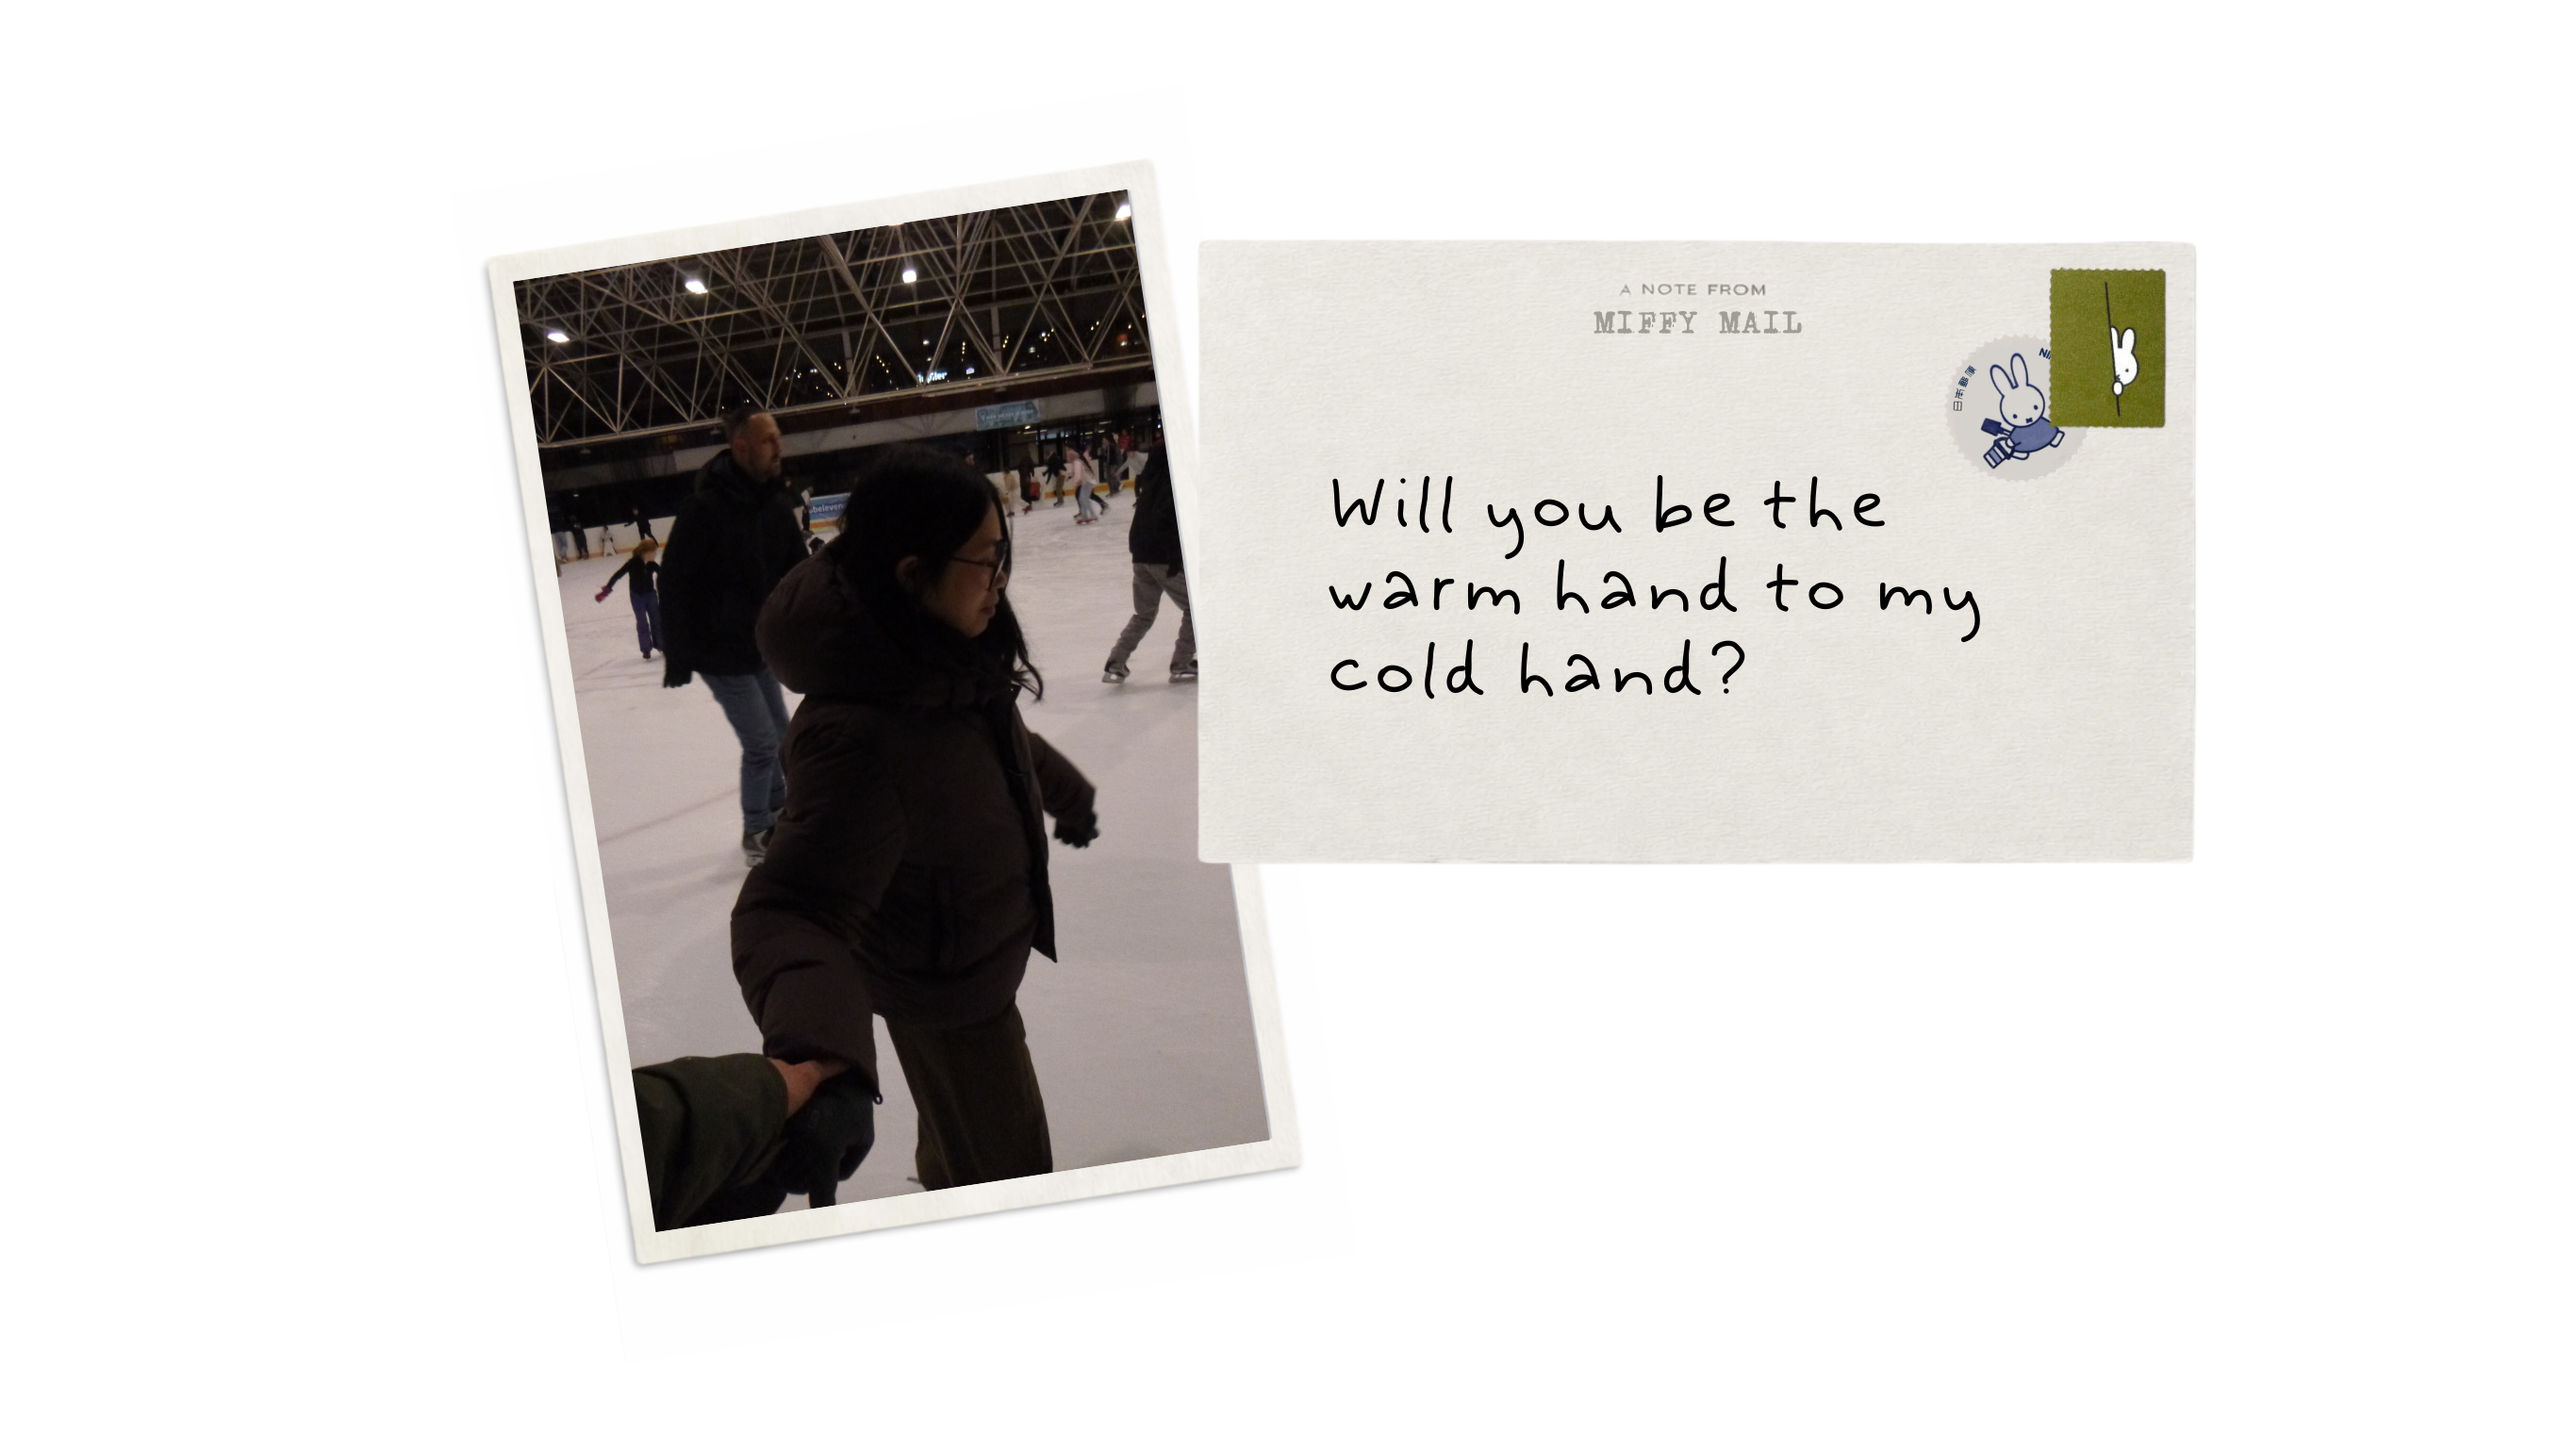
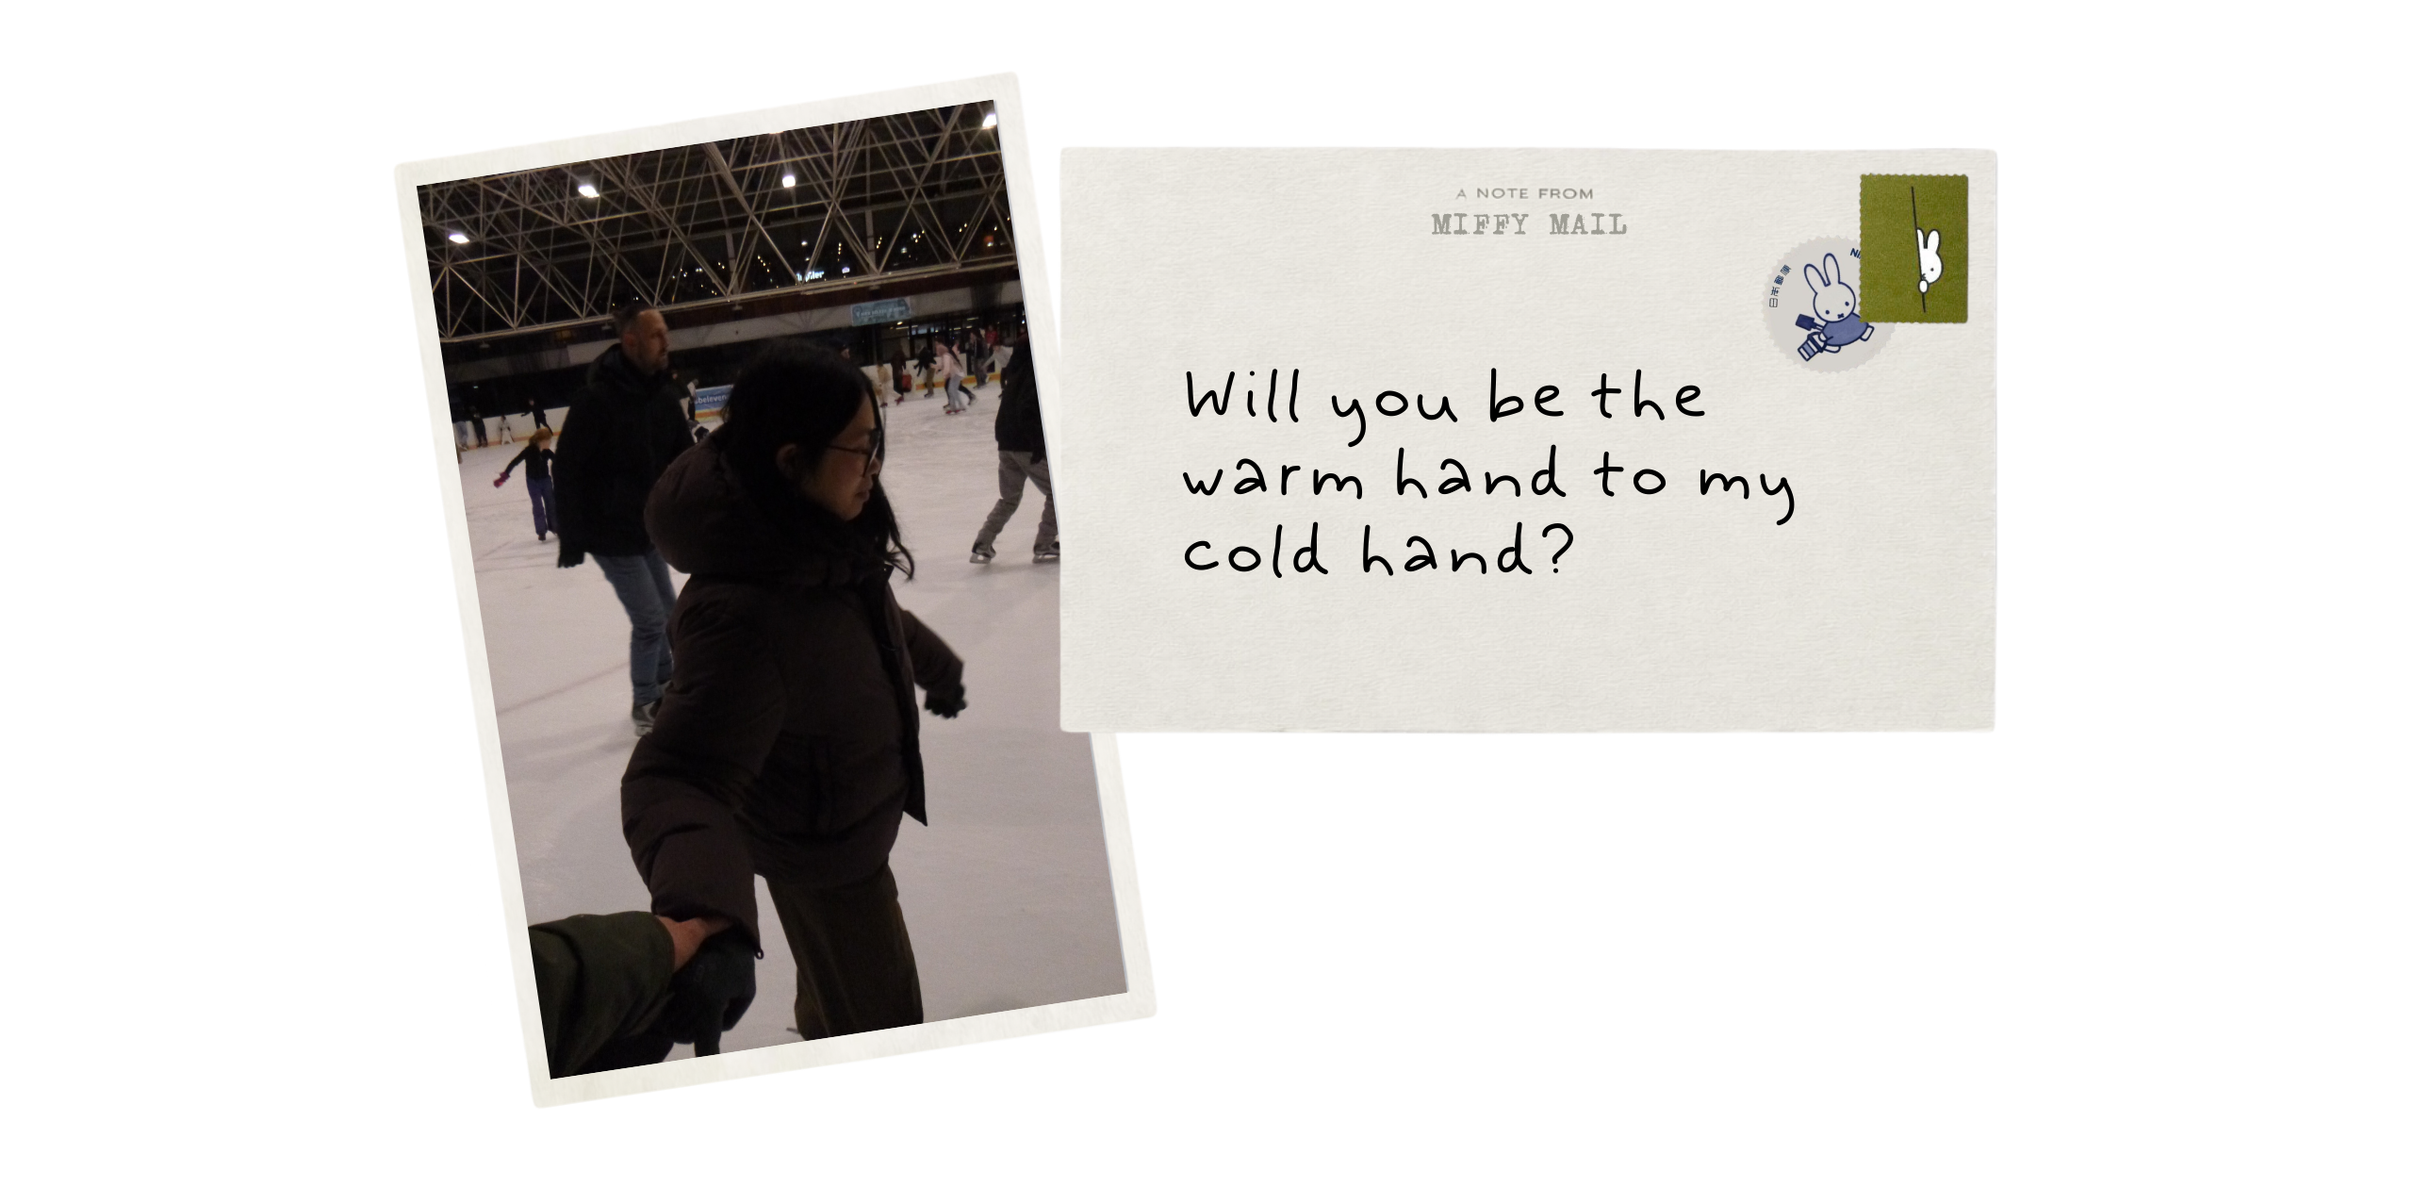
Updates

Changed region(s): [[0.1562, 0.0611, 0.8747, 0.9162], [0.4998, 0.3054, 0.7809, 0.4886]]

diff --git a/style.css b/style.css
@@ -1,7 +1,15 @@
+@font-face {
+  font-family: 'Azura';
+  src: url('assets/uzura.ttf') format('truetype');
+  font-weight: normal;
+  font-style: normal;
+}
+
 * {
   margin: 0;
   padding: 0;
   box-sizing: border-box;
+  font-family: 'Azura', serif;
 }
 
 :root {
@@ -9,7 +17,7 @@
 }
 
 body {
-  font-family: 'Georgia', serif;
+  font-family: 'Azura', serif;
   background: var(--page-bg);
   background-attachment: fixed;
   overflow-x: hidden;
@@ -29,12 +37,12 @@ body.scroll-locked {
 
 .sound-toggle {
   position: fixed;
-  top: 12px;
-  right: 12px;
+  top: 16px;
+  right: 16px;
   z-index: 10001;
-  width: 56px;
-  height: 56px;
-  padding: 50;
+  width: min(70px, 18vw);
+  height: min(70px, 18vw);
+  padding: 0; 
   border: none;
   background: transparent;
   cursor: pointer;
@@ -43,12 +51,14 @@ body.scroll-locked {
   justify-content: center;
   transition: transform 0.2s ease;
 }
+
 .sound-toggle:hover {
   transform: scale(1.08);
 }
+
 .sound-toggle img {
-  width: 48px;
-  height: 48px;
+  width: 100%;
+  height: 100%;
   display: block;
   object-fit: contain;
 }
@@ -128,7 +138,6 @@ body.scroll-locked {
   padding-top: 32px;
   font-size: 14px;
   color: #6b5b4d;
-  font-style: italic;
 }
 
 .sign-title {
@@ -225,8 +234,8 @@ body.scroll-locked {
 }
 
 .loading-gif {
-  max-width: 300px;
-  max-height: 300px;
+  width: min(240px, 40vw);
+  height: auto;
 }
 
 .mail-stage {
@@ -350,10 +359,11 @@ body.scroll-locked {
 
 .letter {
   position: absolute;
-  width: 95%;
-  height: 98%;
-  left: 2.5%;
-  top: 2%;
+  width: 102%;     
+  height: 102%;    
+  left: 50%;
+  top: 1%;        
+  transform: translateX(-50%);
   z-index: 3;
   transition: top 0.6s ease, opacity 0.6s ease;
   overflow: hidden;
@@ -374,7 +384,7 @@ body.scroll-locked {
 
 .checkbox-overlay {
   position: absolute;
-  bottom: 95px;
+  bottom: 140px;
   left: 50%;
   transform: translateX(-50%);
   display: flex;
@@ -395,13 +405,13 @@ body.scroll-locked {
   display: flex;
   flex-direction: column;
   align-items: center;
-  gap: 4px;
+  gap: 10px;
   font-size: 14px;
   cursor: pointer;
   transition: transform 0.2s ease;
   background: rgba(255, 255, 255, 0.9);
   padding: 8px 14px;
-  border-radius: 6px;
+  border-radius: 3px;
 }
 
 .checkbox-option:hover {
@@ -410,18 +420,19 @@ body.scroll-locked {
 }
 
 .checkbox-option input[type="checkbox"] {
-  width: 18px;
-  height: 18px;
+  width: 30px;
+  height: 30px;
   cursor: pointer;
-  accent-color: #8b7355;
+  accent-color: #000000;
   margin: 0;
+  margin-bottom: 8px;
 }
 
 .checkbox-option label {
   cursor: pointer;
-  color: #8b7355;
+  color: #000000;
   font-weight: bold;
-  font-size: 13px;
+  font-size: 15px;
   margin: 0;
 }
 
@@ -446,11 +457,6 @@ body.scroll-locked {
 
 .scroll-hint.hidden {
   opacity: 0;
-}
-
-.scroll-hint-text {
-  font-weight: 600;
-  letter-spacing: 0.04em;
 }
 
 .scroll-hint-arrow {

diff --git a/index.html b/index.html
@@ -8,7 +8,6 @@
     <link rel="stylesheet" href="style.css" />
 </head>
 <body class="scroll-locked">
-
     <div id="loading-screen">
         <img src="assets/loading.gif" alt="Loading..." class="loading-gif">
     </div>
@@ -21,7 +20,6 @@
         <img id="mail-img" src="assets/mail1.png" alt="Mail">
     </div>
 
-
     <div id="main-container">
         <div class="envelope-container">
             <div class="envelope-body"></div>
@@ -29,8 +27,10 @@
             <div class="side-flap-left"></div>
             <div class="side-flap-right"></div>
             <div class="opening-flap"></div>
+            
             <div class="letter">
                 <img src="assets/valentinecard.png" alt="Valentine's Letter">
+                
                 <div class="checkbox-overlay">
                     <div class="checkbox-option">
                         <input type="checkbox" id="yes" name="answer" onclick="handleAnswer(this)">
@@ -50,29 +50,12 @@
     </div>
 
     <section class="mail-scroll-section"><img src="assets/mail2.png" alt=""></section>
-    <br>
-    <br>
     <section class="mail-scroll-section"><img src="assets/mail3.png" alt=""></section>
-    <br>
-    <br>
-    <br>
-    <br>
     <section class="mail-scroll-section"><img src="assets/mail4.png" alt=""></section>
-    <br>
-    <br>
-    <br>
-    <br>
     <section class="mail-scroll-section"><img src="assets/mail5.png" alt=""></section>
-    <br>
-    <br>
-    <br>
-    <br>
     <section class="mail-scroll-section"><img src="assets/mail6.png" alt=""></section>
-    <br>
-    <br>
-    <br>
-    <br>
     <div class="scroll-spacer"></div>
+    <div class="envelope-sign-gap" aria-hidden="true"></div>
 
     <section class="sign-section sign-section--hidden" id="sign-section">
         <h2 class="sign-title">Sign the contract</h2>
@@ -84,7 +67,7 @@
                 <button type="button" class="sign-save" id="sign-save">Save as image</button>
             </div>
         </div>
-        <footer class="sign-footer">made with love</footer>
+        <footer class="sign-footer">made with love <a href="https://wa.me/0799686769?text=Hello%20Valentine.">gabrielle</a></footer>
     </section>
 
     <audio id="bgMusic" src="sounds/hijodelaluna.mp3" preload="auto" loop></audio>

diff --git a/script.js b/script.js
@@ -1,3 +1,4 @@
+
 window.addEventListener('load', () => {
   setTimeout(() => {
       document.getElementById('loading-screen').classList.add('hidden');
@@ -36,7 +37,7 @@ const soundToggleImg = document.getElementById('sound-toggle-img');
 const SOUND_ON_SRC = 'assets/soundon.png';
 const SOUND_OFF_SRC = 'assets/soundoff.png';
 
-if (bgMusic) bgMusic.volume = 0.5;
+if (bgMusic) bgMusic.volume = 0.20;
 
 if (bgMusic && soundToggle && soundToggleImg) {
   soundToggle.addEventListener('click', (e) => {
@@ -149,6 +150,49 @@ function handleAnswer(checkbox) {
       } else {
           playOnce(noSound);
       }
+  }
+}
+
+function createConfettiExplosion() {
+  const confettiImages = [
+      'assets/confetti1.png',
+  ];
+
+  for (let i = 0; i < 30; i++) {
+      const confetti = document.createElement('img');
+      const randomImage = confettiImages[Math.floor(Math.random() * confettiImages.length)];
+      confetti.src = randomImage;
+      
+      confetti.style.position = 'fixed';
+      confetti.style.left = '50%';
+      confetti.style.top = '50%';
+      confetti.style.width = (Math.random() * 40 + 20) + 'px'; 
+      confetti.style.height = 'auto';
+      confetti.style.pointerEvents = 'none';
+      confetti.style.zIndex = '10000';
+      confetti.style.transition = 'all 2s ease-out';
+      confetti.style.opacity = '1';
+      
+      confetti.onerror = function() {
+          this.style.display = 'none';
+      };
+      
+      document.body.appendChild(confetti);
+
+      setTimeout(() => {
+          const angle = (Math.PI * 2 * i) / 30;
+          const distance = 200 + Math.random() * 300;
+          const x = Math.cos(angle) * distance;
+          const y = Math.sin(angle) * distance;
+          const rotation = Math.random() * 720 - 360; 
+          
+          confetti.style.transform = `translate(${x}px, ${y}px) rotate(${rotation}deg)`;
+          confetti.style.opacity = '0';
+      }, 10);
+
+      setTimeout(() => {
+          confetti.remove();
+      }, 2000);
   }
 }
 
